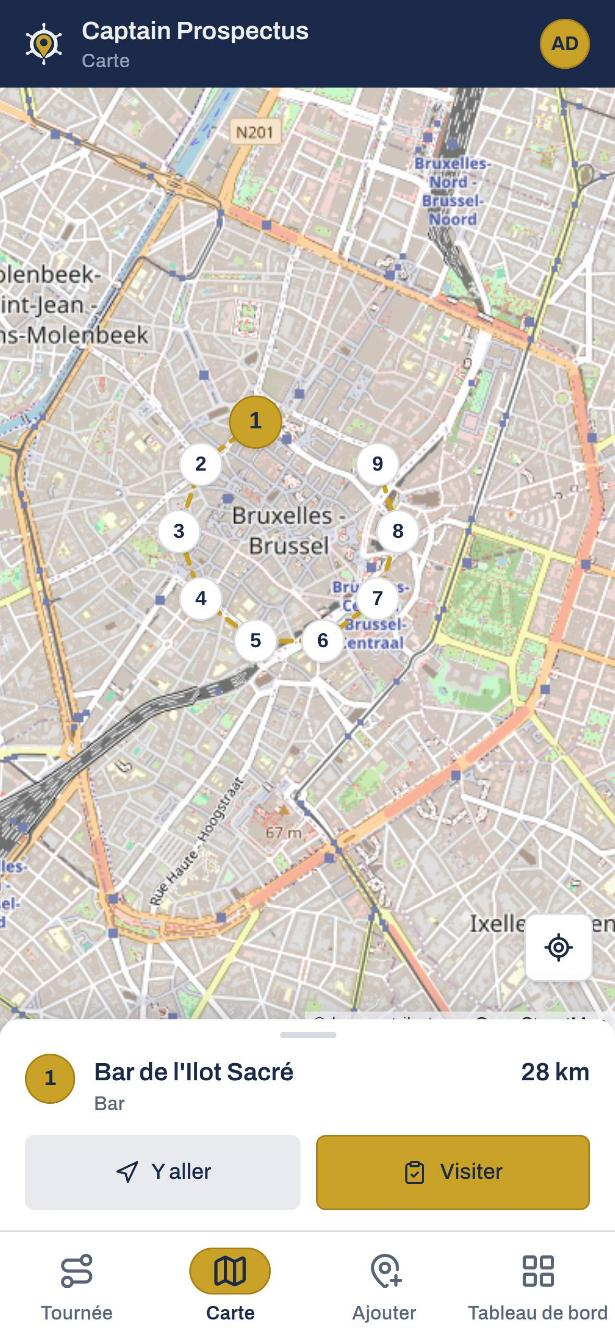
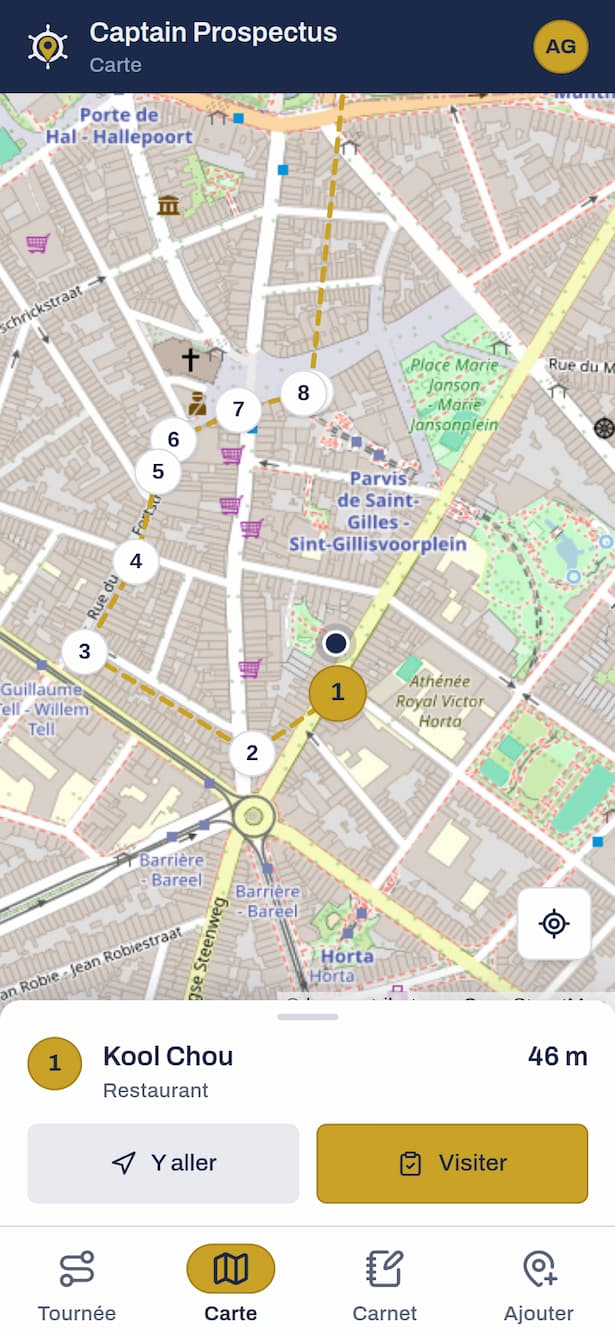
update screenshot

diff --git a/_bmad-output/party-mode/memories/installed/.memlog.md b/_bmad-output/party-mode/memories/installed/.memlog.md
@@ -1,5 +1,5 @@
 ---
-updated: 2026-10-14T16:57
+updated: 2026-10-19T21:02
 ---
 
 - (moment) Session 1 (2026-09-30): room sat down, from the forge 'not-interested-skips-script', to list the main refusal reasons a Pas intéressé visit records instead of the script. Walk-ons: François (field agent, Brussels pavement) and Hélène (sales director who wants the 'why no' data).
@@ -47,3 +47,6 @@ updated: 2026-10-14T16:57
 - (outcome) Owner DECIDED: GPS gate until the swipe only; no escape hatch in T1; the GPS gate is a dialog card (not a screen): 'enable location', small 'Réglages › Localisation' line, 'Activer' button acting like the existing Réessayer (PositionDenied → refresh() → getCurrentPosition). Amelia checked this time: useAgentPosition.ts:4 forbids watchPosition (tracking is a vision.md non-goal), so 'keep listening' = repeated one-shot readings while the dialog is open; ui/alert-dialog already in the field bundle (leave-guard), zero new weight. Sally: dialog only over the start screen, never when no tournée. Board closed; awaiting owner's 'go' for /new-adr.
 - (outcome) Winston ran /new-adr: ADR-0036 'A morning swipe freezes each agent's numbered tournée' proposed in PR #493 (amends ADR-0028; ADR-0007 untouched). Counter stopgap #492 ships first. Next: owner accepts the ADR, then John cuts the T1 epic.
 - (outcome) Session 4 closed (2026-10-14): owner approved ADR-0036, set accepted in PR #493 (open, mergeable); #492 counter stopgap already merged via #494 ('portes' copy, to become 'arrêts' in the epic). T1 epic deferred to a new session: John cuts stories from ADR-0036 (counter+numbers, gates+swipe, Carnet, admin door-days). Running bits: Winston vs 'easy peasy' became 'dangerously good at boring'; Amelia finally checked before speaking; François's 'Quinze sur vingt. Voilà.'
+- (dynamic) Session 5 (2026-10-19) opened on: admin signing in with a code lands on /admin, not /tournee. Amelia found the bigger leak: PWA start_url '/' sends an online admin to /admin on every launch (App.tsx:537), so it isn't only a login problem. Wildcard-ish split: John 'land by credential', Winston 'remember last side per device', Sally 'just a Ma tournée link'.
+- (outcome) Owner DECIDED (angry, 'god damn fucked up'): admin who signs in with a code lands on /tournee like an agent and reaches /admin from the avatar card (already exists, field/AccountMenu.tsx:79, online only); passphrase sign-in lands on /admin. Owner also asked why two login forms at all. Open: the choice must survive relaunch (start_url '/'); Amelia wants the session's kind on the server via /api/me, Winston a localStorage flag. Merging the two forms would amend ADR-0029.
+- (outcome) SUPERSEDES the earlier session-5 'code lands on /tournee' decision: owner decided admins do NO tournée at all (canvass = separate agent account), roles fixed at creation (Winston's idea, Sally+John backed), Agents screen → Utilisateurs in two sections, admin form = email + code (passphrase gone), break-glass unchanged, strict English slugs (/round...) as a separate change. Published: milestone 6, epics #578 slugs, #579 admins out (ADR #582), #580 admin code (ADR #583), planning PR #584. Running bit: Sally 'loses with her head held high'.
